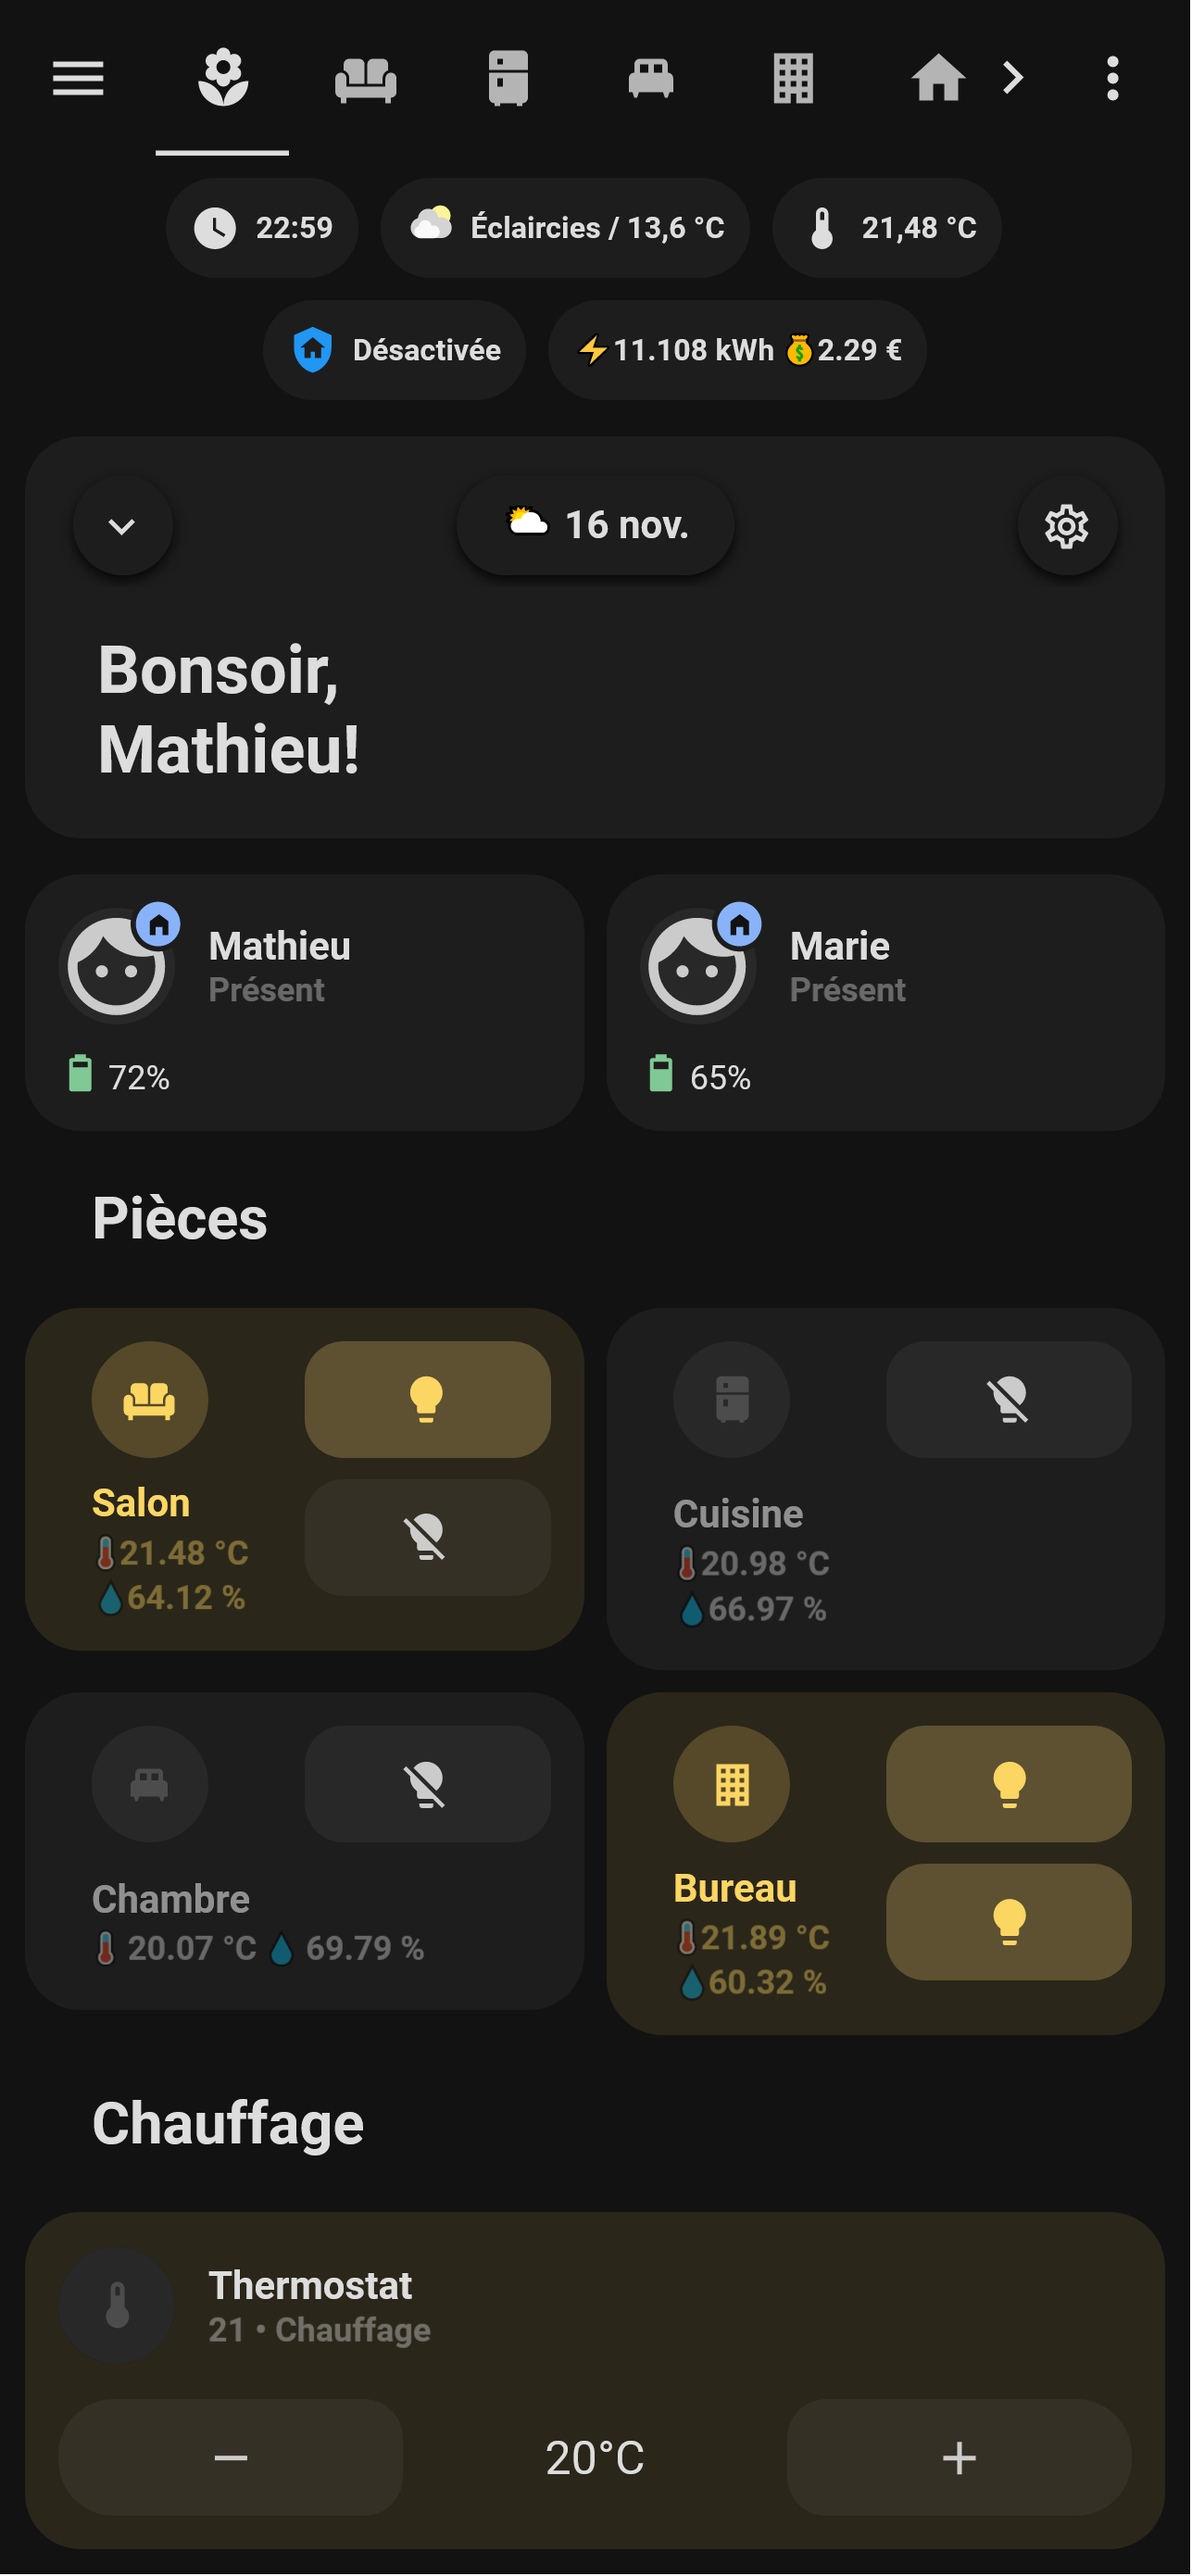
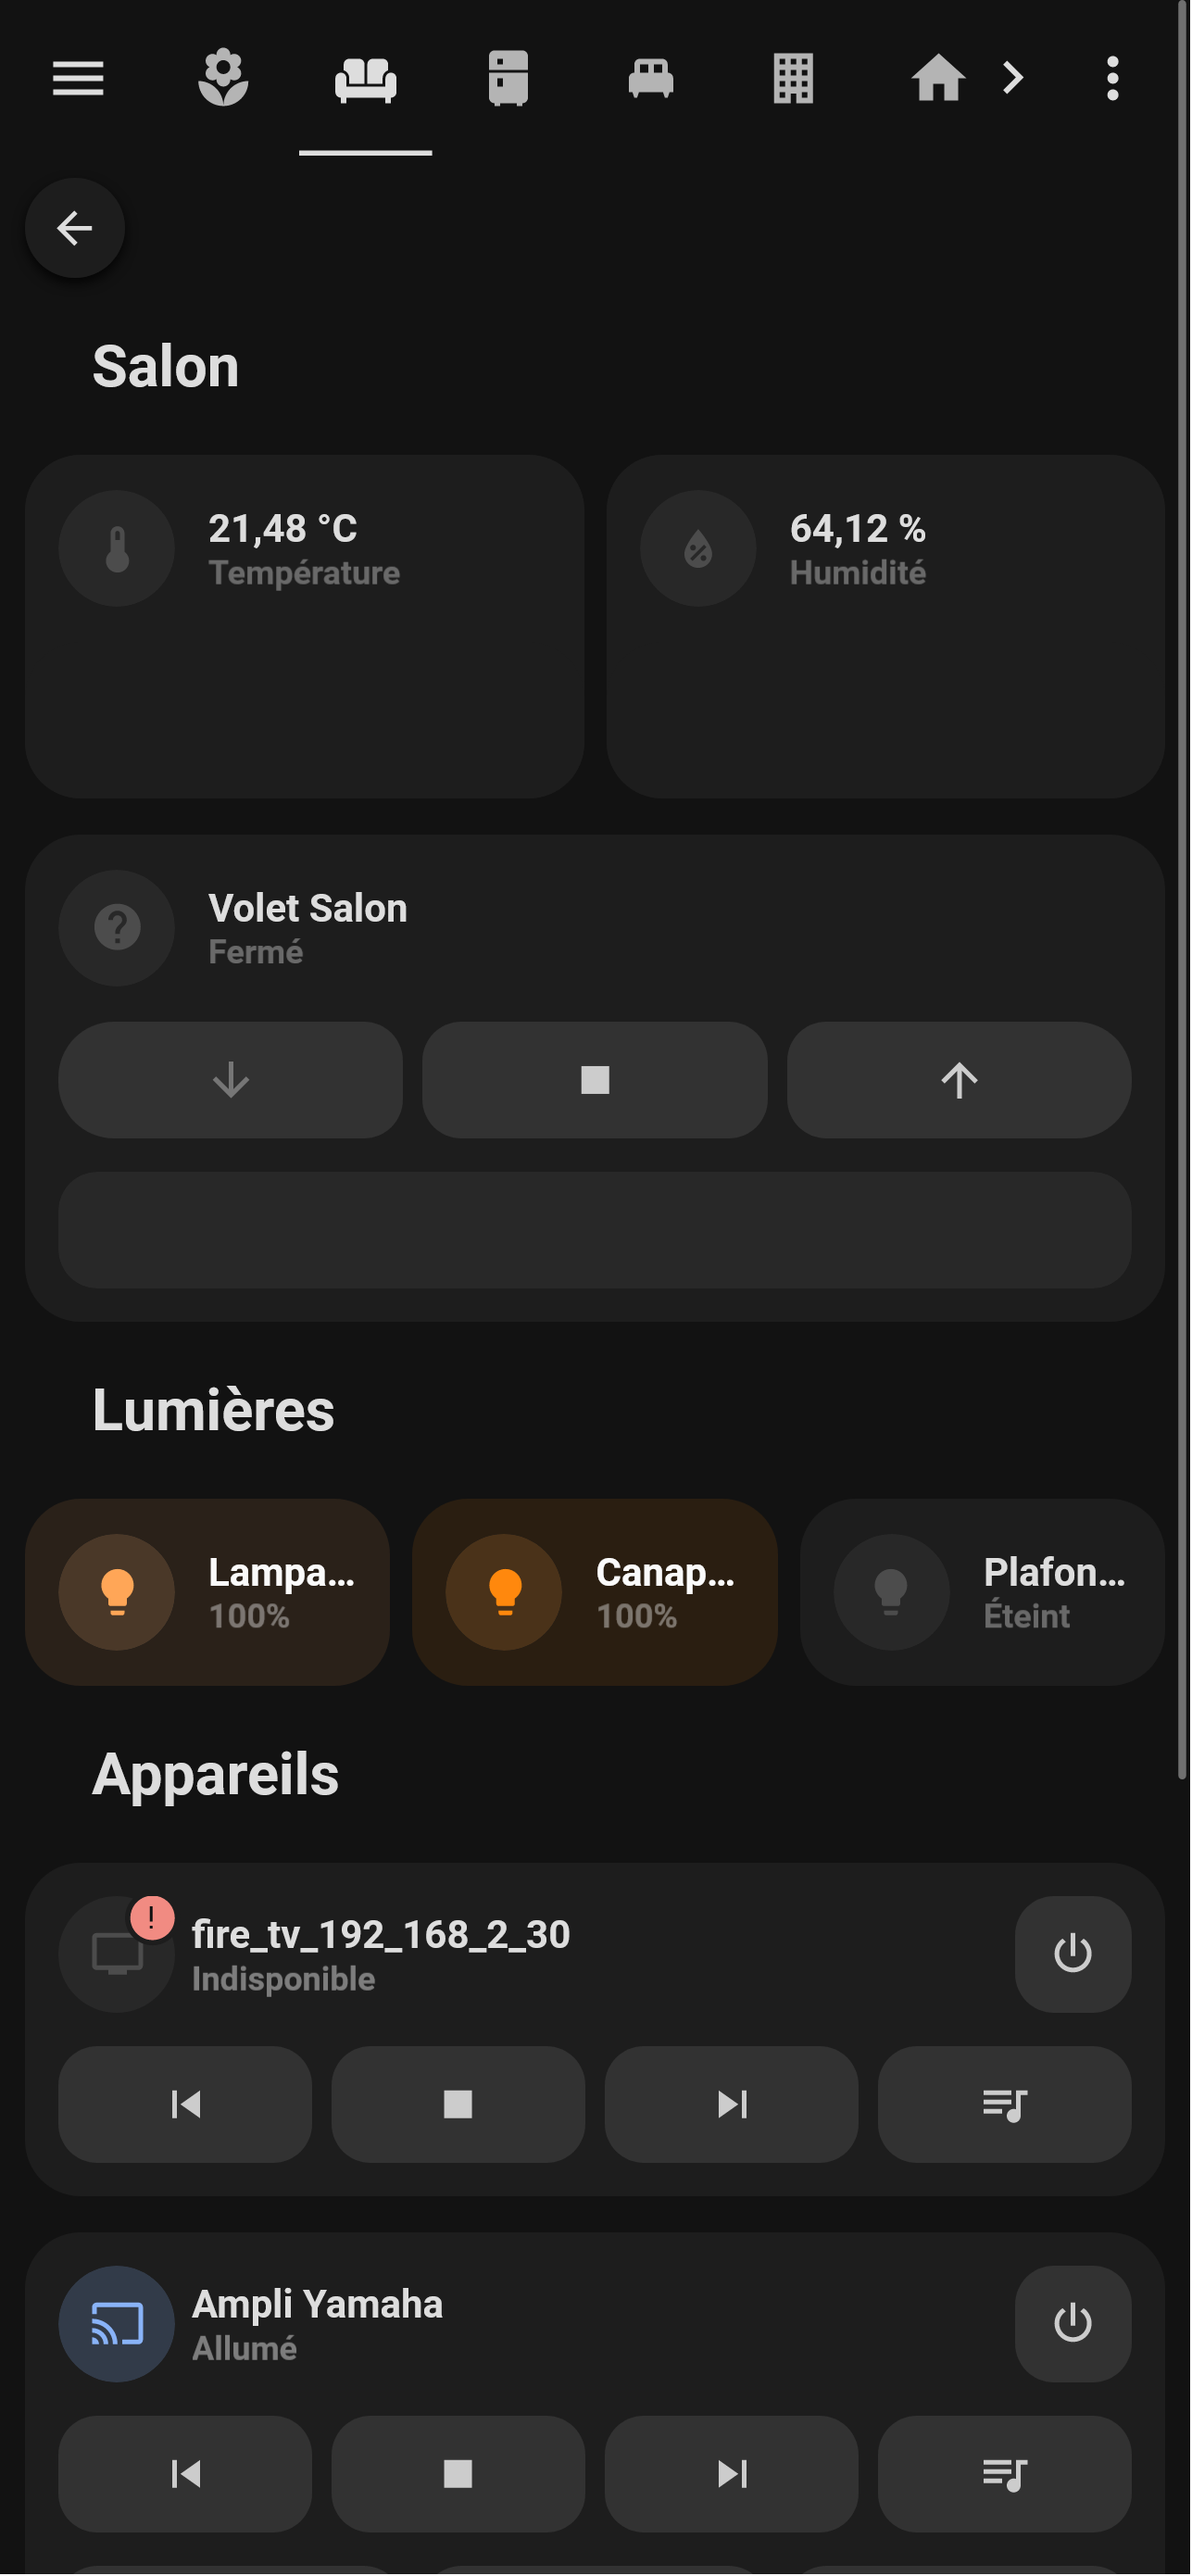
readme

diff --git a/README.md b/README.md
@@ -4,7 +4,7 @@ This is my Home Assistant installation.
 
 ## Screenshots
 
-<img src="screenshots/home_assistant_dashboard_home.png" alt="image" style="width:30%;height:auto;"/><img src="screenshots/home_assistant_dashboard_living_room.png" alt="image" style="width:30%;height:auto;"/>
+<img src="screenshots/home_assistant_dashboard_home.png" alt="image" style="width:35%;height:auto;"/>     <img src="screenshots/home_assistant_dashboard_living_room.png" alt="image" style="width:35%;height:auto;"/>
 
 ## Some statistics about my installation:
 
